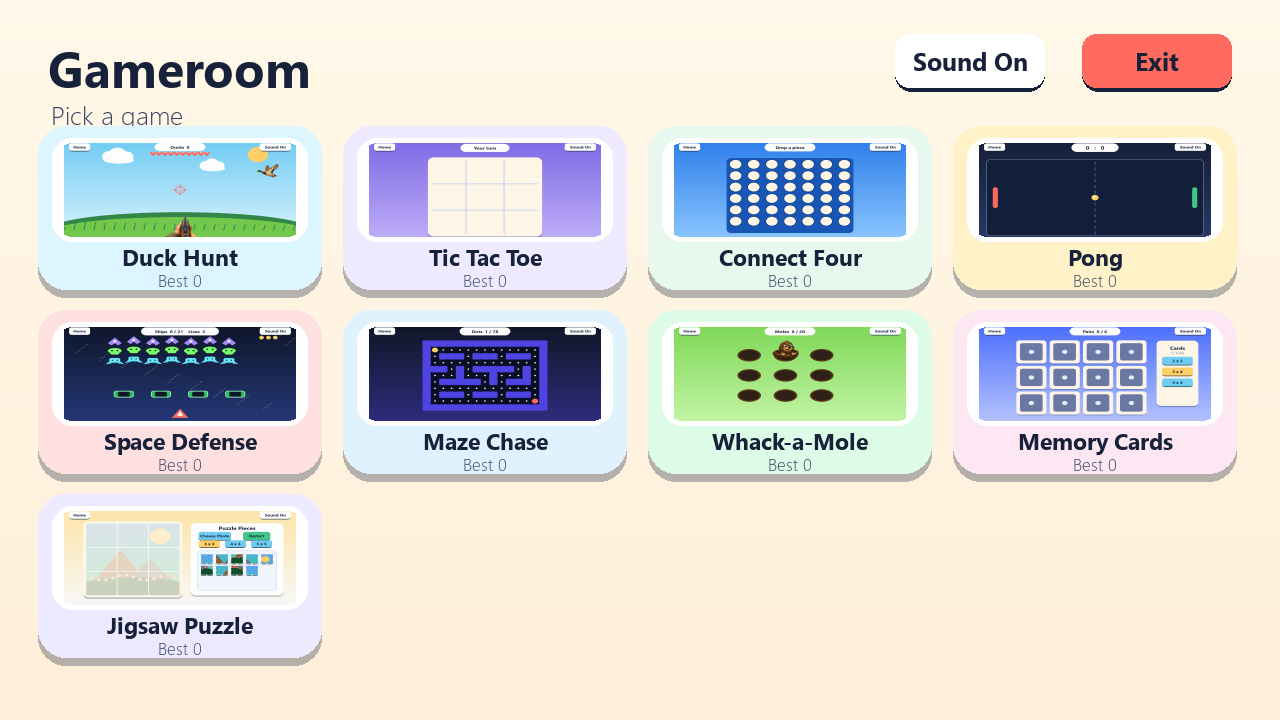
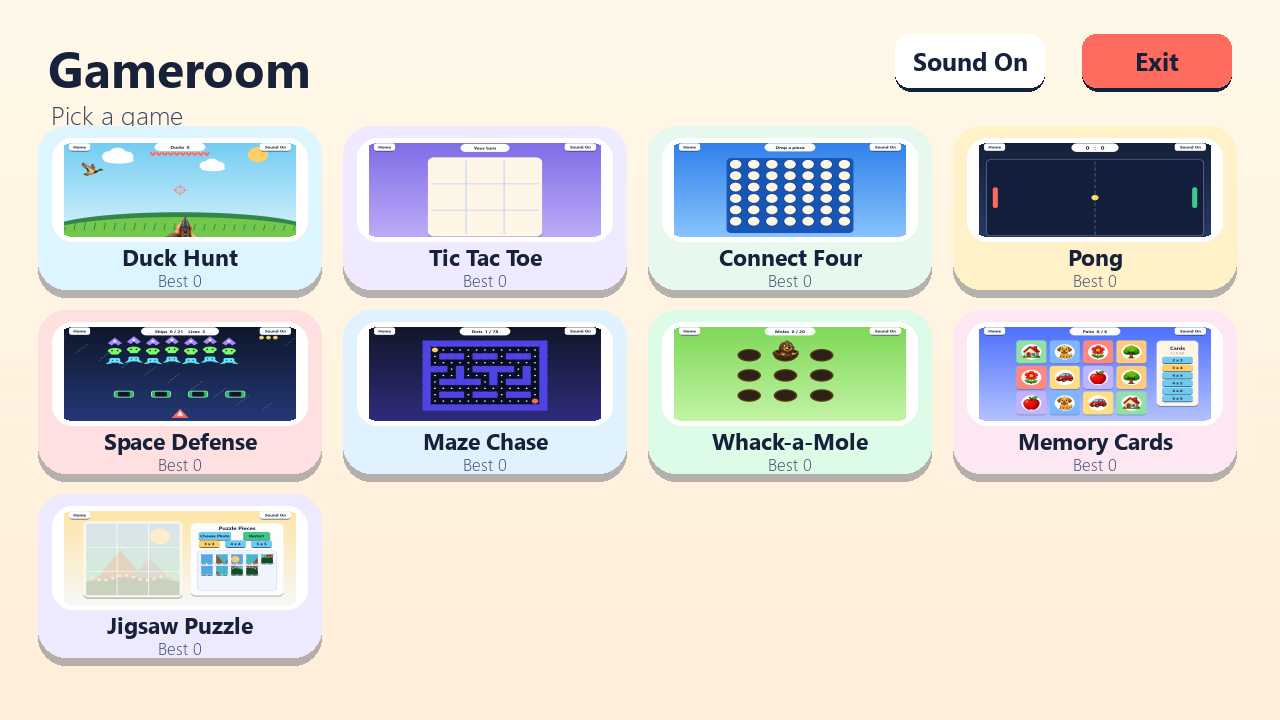
Improve memory card art and grids

diff --git a/src/games_for_grandpa/games/memory_cards_scene.py b/src/games_for_grandpa/games/memory_cards_scene.py
@@ -1,6 +1,7 @@
 from __future__ import annotations
 
 import math
+from importlib.resources import files
 
 import pygame
 
@@ -8,6 +9,7 @@ from games_for_grandpa import theme
 from games_for_grandpa.core import AppController, Scene
 from games_for_grandpa.games.memory_cards import (
     GRID_OPTIONS,
+    PAIR_ICON_COUNT,
     MemoryCardsModel,
     MemoryState,
 )
@@ -16,6 +18,10 @@ from games_for_grandpa.ui import Button, GameHud, ResultActions
 BOARD_AREA = pygame.Rect(205, 115, 720, 540)
 SIDE_PANEL = pygame.Rect(980, 120, 230, 470)
 CARD_GAP = 18
+LARGE_CARD_GAP = 10
+ICON_COLUMNS = 6
+ICON_ROWS = 3
+ICON_SIZE = 256
 PAIR_COLORS = (
     pygame.Color("#FF8A80"),
     pygame.Color("#80B9FF"),
@@ -38,9 +44,10 @@ class MemoryCardsScene(Scene):
         self.result_actions = ResultActions(controller, self._restart)
         self.elapsed = 0.0
         self.card_pulses = [0.0] * self.model.card_count
+        self.icons = self._load_icons()
         self.grid_buttons = [
             Button(
-                pygame.Rect(SIDE_PANEL.x + 30, SIDE_PANEL.y + 116 + index * 78, 170, 58),
+                pygame.Rect(SIDE_PANEL.x + 30, SIDE_PANEL.y + 116 + index * 55, 170, 48),
                 f"{rows} x {columns}",
                 lambda grid=(rows, columns): self._change_grid(grid),
                 accent=theme.SKY,
@@ -81,10 +88,12 @@ class MemoryCardsScene(Scene):
 
     def update(self, dt: float) -> None:
         self.elapsed += dt
+        self._sync_card_pulses()
         self.card_pulses = [max(0.0, pulse - dt) for pulse in self.card_pulses]
         self.model.update(dt)
 
     def draw(self, surface: pygame.Surface) -> None:
+        self._sync_card_pulses()
         theme.vertical_gradient(surface, pygame.Color("#4C6FFF"), pygame.Color("#B8C6FF"))
         self._draw_score(surface)
         self._draw_side_panel(surface)
@@ -96,21 +105,26 @@ class MemoryCardsScene(Scene):
         else:
             self.hud.draw(surface)
 
+    def _sync_card_pulses(self) -> None:
+        if len(self.card_pulses) != self.model.card_count:
+            self.card_pulses = [0.0] * self.model.card_count
+
     def _card_rects(self) -> list[pygame.Rect]:
         rows, columns = self.model.rows, self.model.columns
+        gap = CARD_GAP if max(rows, columns) <= 4 else LARGE_CARD_GAP
         size = min(
-            (BOARD_AREA.width - CARD_GAP * (columns - 1)) // columns,
-            (BOARD_AREA.height - CARD_GAP * (rows - 1)) // rows,
+            (BOARD_AREA.width - gap * (columns - 1)) // columns,
+            (BOARD_AREA.height - gap * (rows - 1)) // rows,
         )
-        total_width = columns * size + (columns - 1) * CARD_GAP
-        total_height = rows * size + (rows - 1) * CARD_GAP
+        total_width = columns * size + (columns - 1) * gap
+        total_height = rows * size + (rows - 1) * gap
         start_x = BOARD_AREA.centerx - total_width // 2
         start_y = BOARD_AREA.centery - total_height // 2
         # DSA: The visible grid is derived by row/column arithmetic in O(n) for drawing.
         return [
             pygame.Rect(
-                start_x + column * (size + CARD_GAP),
-                start_y + row * (size + CARD_GAP),
+                start_x + column * (size + gap),
+                start_y + row * (size + gap),
                 size,
                 size,
             )
@@ -158,7 +172,7 @@ class MemoryCardsScene(Scene):
         theme.draw_card(surface, draw_rect, color=color, shadow_offset=6, radius=18)
         if face_up:
             pygame.draw.circle(surface, theme.WHITE, draw_rect.center, draw_rect.width // 3)
-            self._draw_object(surface, draw_rect.center, card.pair_id, draw_rect.width)
+            self._draw_icon(surface, draw_rect, card.pair_id)
         else:
             inset = max(26, draw_rect.width // 4)
             pygame.draw.rect(
@@ -171,88 +185,24 @@ class MemoryCardsScene(Scene):
                 surface, pygame.Color("#E8EEFF"), draw_rect.center, max(10, draw_rect.width // 11)
             )
 
+    def _draw_icon(self, surface: pygame.Surface, rect: pygame.Rect, pair_id: int) -> None:
+        icon = self.icons[pair_id % len(self.icons)]
+        target_size = max(36, round(rect.width * 0.72))
+        scaled = pygame.transform.smoothscale(icon, (target_size, target_size))
+        surface.blit(scaled, scaled.get_rect(center=rect.center))
+
     @staticmethod
-    def _draw_object(
-        surface: pygame.Surface, center: tuple[int, int], pair_id: int, size: int
-    ) -> None:
-        x, y = center
-        scale = size / 130
-        kind = pair_id % 8
-        if kind == 0:
-            for angle in range(0, 360, 60):
-                px = x + round(math.cos(math.radians(angle)) * 19 * scale)
-                py = y + round(math.sin(math.radians(angle)) * 19 * scale)
-                pygame.draw.circle(surface, theme.PINK, (px, py), round(13 * scale))
-            pygame.draw.circle(surface, theme.YELLOW, center, round(14 * scale))
-        elif kind == 1:
-            pygame.draw.circle(surface, pygame.Color("#F4A261"), center, round(26 * scale))
-            pygame.draw.polygon(
-                surface,
-                pygame.Color("#F4A261"),
-                [(x - 26, y - 16), (x - 12, y - 42), (x - 4, y - 12)],
-            )
-            pygame.draw.polygon(
-                surface,
-                pygame.Color("#F4A261"),
-                [(x + 26, y - 16), (x + 12, y - 42), (x + 4, y - 12)],
-            )
-            pygame.draw.circle(
-                surface, theme.BLACK, (x - round(9 * scale), y - round(4 * scale)), round(4 * scale)
-            )
-            pygame.draw.circle(
-                surface, theme.BLACK, (x + round(9 * scale), y - round(4 * scale)), round(4 * scale)
-            )
-            pygame.draw.circle(surface, theme.CORAL, (x, y + round(8 * scale)), round(5 * scale))
-        elif kind == 2:
-            pygame.draw.rect(
-                surface, theme.BLUE, pygame.Rect(x - 31, y - 12, 62, 25), border_radius=7
-            )
-            pygame.draw.polygon(
-                surface,
-                theme.SKY,
-                [(x - 18, y - 13), (x - 5, y - 30), (x + 18, y - 30), (x + 31, y - 13)],
-            )
-            pygame.draw.circle(surface, theme.BLACK, (x - 20, y + 18), 8)
-            pygame.draw.circle(surface, theme.BLACK, (x + 20, y + 18), 8)
-        elif kind == 3:
-            pygame.draw.rect(
-                surface, theme.CREAM, pygame.Rect(x - 28, y - 5, 56, 40), border_radius=4
-            )
-            pygame.draw.polygon(
-                surface, theme.CORAL, [(x - 34, y - 5), (x, y - 38), (x + 34, y - 5)]
-            )
-            pygame.draw.rect(
-                surface, theme.BROWN, pygame.Rect(x - 8, y + 12, 16, 23), border_radius=3
-            )
-        elif kind == 4:
-            pygame.draw.circle(surface, theme.YELLOW, center, round(28 * scale))
-            for angle in range(0, 360, 45):
-                start = (
-                    x + round(math.cos(math.radians(angle)) * 36 * scale),
-                    y + round(math.sin(math.radians(angle)) * 36 * scale),
-                )
-                end = (
-                    x + round(math.cos(math.radians(angle)) * 48 * scale),
-                    y + round(math.sin(math.radians(angle)) * 48 * scale),
-                )
-                pygame.draw.line(surface, theme.YELLOW_DARK, start, end, max(3, round(4 * scale)))
-        elif kind == 5:
-            pygame.draw.rect(
-                surface, theme.BROWN, pygame.Rect(x - 8, y + 4, 16, 34), border_radius=5
-            )
-            pygame.draw.circle(surface, theme.GREEN, (x, y - 20), round(24 * scale))
-            pygame.draw.circle(surface, theme.GREEN_DARK, (x - 18, y - 6), round(19 * scale))
-            pygame.draw.circle(surface, theme.GREEN_DARK, (x + 18, y - 6), round(19 * scale))
-        elif kind == 6:
-            pygame.draw.ellipse(surface, theme.SKY, pygame.Rect(x - 34, y - 17, 58, 34))
-            pygame.draw.polygon(
-                surface, theme.BLUE, [(x + 18, y), (x + 42, y - 18), (x + 42, y + 18)]
-            )
-            pygame.draw.circle(surface, theme.BLACK, (x - 16, y - 3), 4)
-        else:
-            pygame.draw.circle(surface, theme.CORAL, (x, y + 5), round(25 * scale))
-            pygame.draw.ellipse(surface, theme.GREEN, pygame.Rect(x + 1, y - 35, 25, 14))
-            pygame.draw.line(surface, theme.BROWN, (x, y - 16), (x + 7, y - 32), 4)
+    def _load_icons() -> list[pygame.Surface]:
+        atlas_path = files("games_for_grandpa.assets").joinpath("memory_objects.png")
+        atlas = pygame.image.load(str(atlas_path)).convert_alpha()
+        icons = []
+        for index in range(PAIR_ICON_COUNT):
+            row, column = divmod(index, ICON_COLUMNS)
+            source = pygame.Rect(column * ICON_SIZE, row * ICON_SIZE, ICON_SIZE, ICON_SIZE)
+            icons.append(atlas.subsurface(source).copy())
+        if len(icons) != ICON_COLUMNS * ICON_ROWS:
+            raise RuntimeError("memory icon atlas does not match configured grid")
+        return icons
 
     def _draw_result(self, surface: pygame.Surface) -> None:
         panel = pygame.Rect(330, 210, 620, 300)

diff --git a/tests/test_memory_cards.py b/tests/test_memory_cards.py
@@ -62,3 +62,20 @@ def test_memory_grid_size_can_change() -> None:
     assert model.card_count == 16
     assert model.pair_count == 8
     assert len(model.cards) == 16
+
+    model.reset((6, 6))
+
+    assert model.card_count == 36
+    assert model.pair_count == 18
+    assert len(model.cards) == 36
+
+
+def test_memory_rejects_grids_larger_than_icon_set() -> None:
+    model = MemoryCardsModel(rng=random.Random(8))
+
+    try:
+        model.reset((6, 8))
+    except ValueError as error:
+        assert "unsupported memory grid" in str(error)
+    else:
+        raise AssertionError("unsupported memory grid should fail")

diff --git a/src/games_for_grandpa/scenes.py b/src/games_for_grandpa/scenes.py
@@ -84,7 +84,11 @@ class HomeScene(Scene):
 
     def _render_preview(self, definition: GameDefinition) -> pygame.Surface:
         snapshot = pygame.Surface(LOGICAL_SIZE)
-        definition.scene_factory(self.controller).draw(snapshot)
+        scene = definition.scene_factory(self.controller)
+        if definition.game_id == "memory_cards" and hasattr(scene, "model"):
+            for card in scene.model.cards[:12]:
+                card.face_up = True
+        scene.draw(snapshot)
         return pygame.transform.smoothscale(snapshot, (232, 100))
 
     def handle_event(self, event: pygame.event.Event) -> None:

diff --git a/src/games_for_grandpa/games/memory_cards.py b/src/games_for_grandpa/games/memory_cards.py
@@ -5,9 +5,10 @@ from dataclasses import dataclass
 from enum import Enum
 
 DEFAULT_GRID = (3, 4)
-GRID_OPTIONS = ((2, 3), (3, 4), (4, 4))
+GRID_OPTIONS = ((2, 3), (3, 4), (4, 4), (4, 5), (4, 6), (6, 6))
 CARD_COUNT = DEFAULT_GRID[0] * DEFAULT_GRID[1]
 PAIR_COUNT = CARD_COUNT // 2
+PAIR_ICON_COUNT = 18
 MISMATCH_SECONDS = 0.75
 
 
@@ -100,4 +101,6 @@ class MemoryCardsModel:
         rows, columns = grid_size
         if (rows * columns) % 2 != 0:
             raise ValueError("memory card grid must contain an even number of cards")
+        if rows * columns // 2 > PAIR_ICON_COUNT:
+            raise ValueError("memory card grid needs more icons than the atlas provides")
         return rows, columns

diff --git a/scripts/capture_screenshots.py b/scripts/capture_screenshots.py
@@ -34,6 +34,9 @@ def main() -> int:
             for definition in app.registry.values()
         )
         for name, scene in scenes:
+            if name == "memory-cards" and hasattr(scene, "model"):
+                for card in scene.model.cards[:12]:
+                    card.face_up = True
             scene.draw(app.canvas)
             pygame.image.save(app.canvas, output / f"{name}.png")
     finally:

diff --git a/src/games_for_grandpa/__init__.py b/src/games_for_grandpa/__init__.py
@@ -1,3 +1,3 @@
 """Accessible mouse-only games for Windows."""
 
-__version__ = "0.3.3"
+__version__ = "0.3.4"

diff --git a/docs/DSA_GUIDE.md b/docs/DSA_GUIDE.md
@@ -88,7 +88,8 @@ hit hole is stored as a nullable index so the scene can draw dizzy feedback in O
 Cards are a list of visual IDs. The visible grid index maps directly to a card in O(1), and
 row/column arithmetic derives the current grid layout from the selected size. Matching two
 selected indices compares their visual IDs and either marks them matched or turns them back
-over.
+over. The object icon atlas has 18 unique pictures, so the largest grid is 6 x 6 with 18
+pairs.
 
 ## Jigsaw Puzzle
 

diff --git a/README.md b/README.md
@@ -16,7 +16,7 @@ data structures, algorithms, testing, packaging, and release automation.
 - **Space Defense:** move horizontally while automatic shots clear varied ships, shields block fire, and enemy bolts add pressure.
 - **Maze Chase:** click a neighboring path or destination and collect the dots.
 - **Whack-a-Mole:** hit the visible mole with a mallet and watch for dizzy feedback.
-- **Memory Cards:** match picture cards and choose a larger grid from the side panel.
+- **Memory Cards:** match colorful object cards and choose grids up to 6 x 6 from the side panel.
 - **Jigsaw Puzzle:** drag shuffled pieces from the tray onto the picture board, with an optional photo picker.
 
 Artwork is original, using code-drawn UI plus generated transparent sprites. The app does

diff --git a/docs/RELEASE.md b/docs/RELEASE.md
@@ -17,7 +17,7 @@ mouse.
 ## Publish
 
 ```powershell
-git tag -a v0.3.3 -m "Games for Grandpa v0.3.3"
+git tag -a v0.3.4 -m "Games for Grandpa v0.3.4"
 git push origin main --follow-tags
 ```
 

diff --git a/docs/TESTING.md b/docs/TESTING.md
@@ -21,7 +21,7 @@ The suite verifies:
 - Space Defense movement, automatic shots, enemy collision, enemy bolts, shields, and loss states;
 - Maze Chase pellet collection and BFS enemy pathing;
 - Whack-a-Mole spawn scheduling and click scoring;
-- Memory Cards pair matching and grid-size changes;
+- Memory Cards pair matching, generated object icons, and grid-size changes up to 6 x 6;
 - Jigsaw Puzzle tray shuffling, correct-drop snapping, rejected drops, piece counts, and completion;
 - missing, corrupt, and valid persistence files;
 - mouse-only navigation from Home into a game and back;